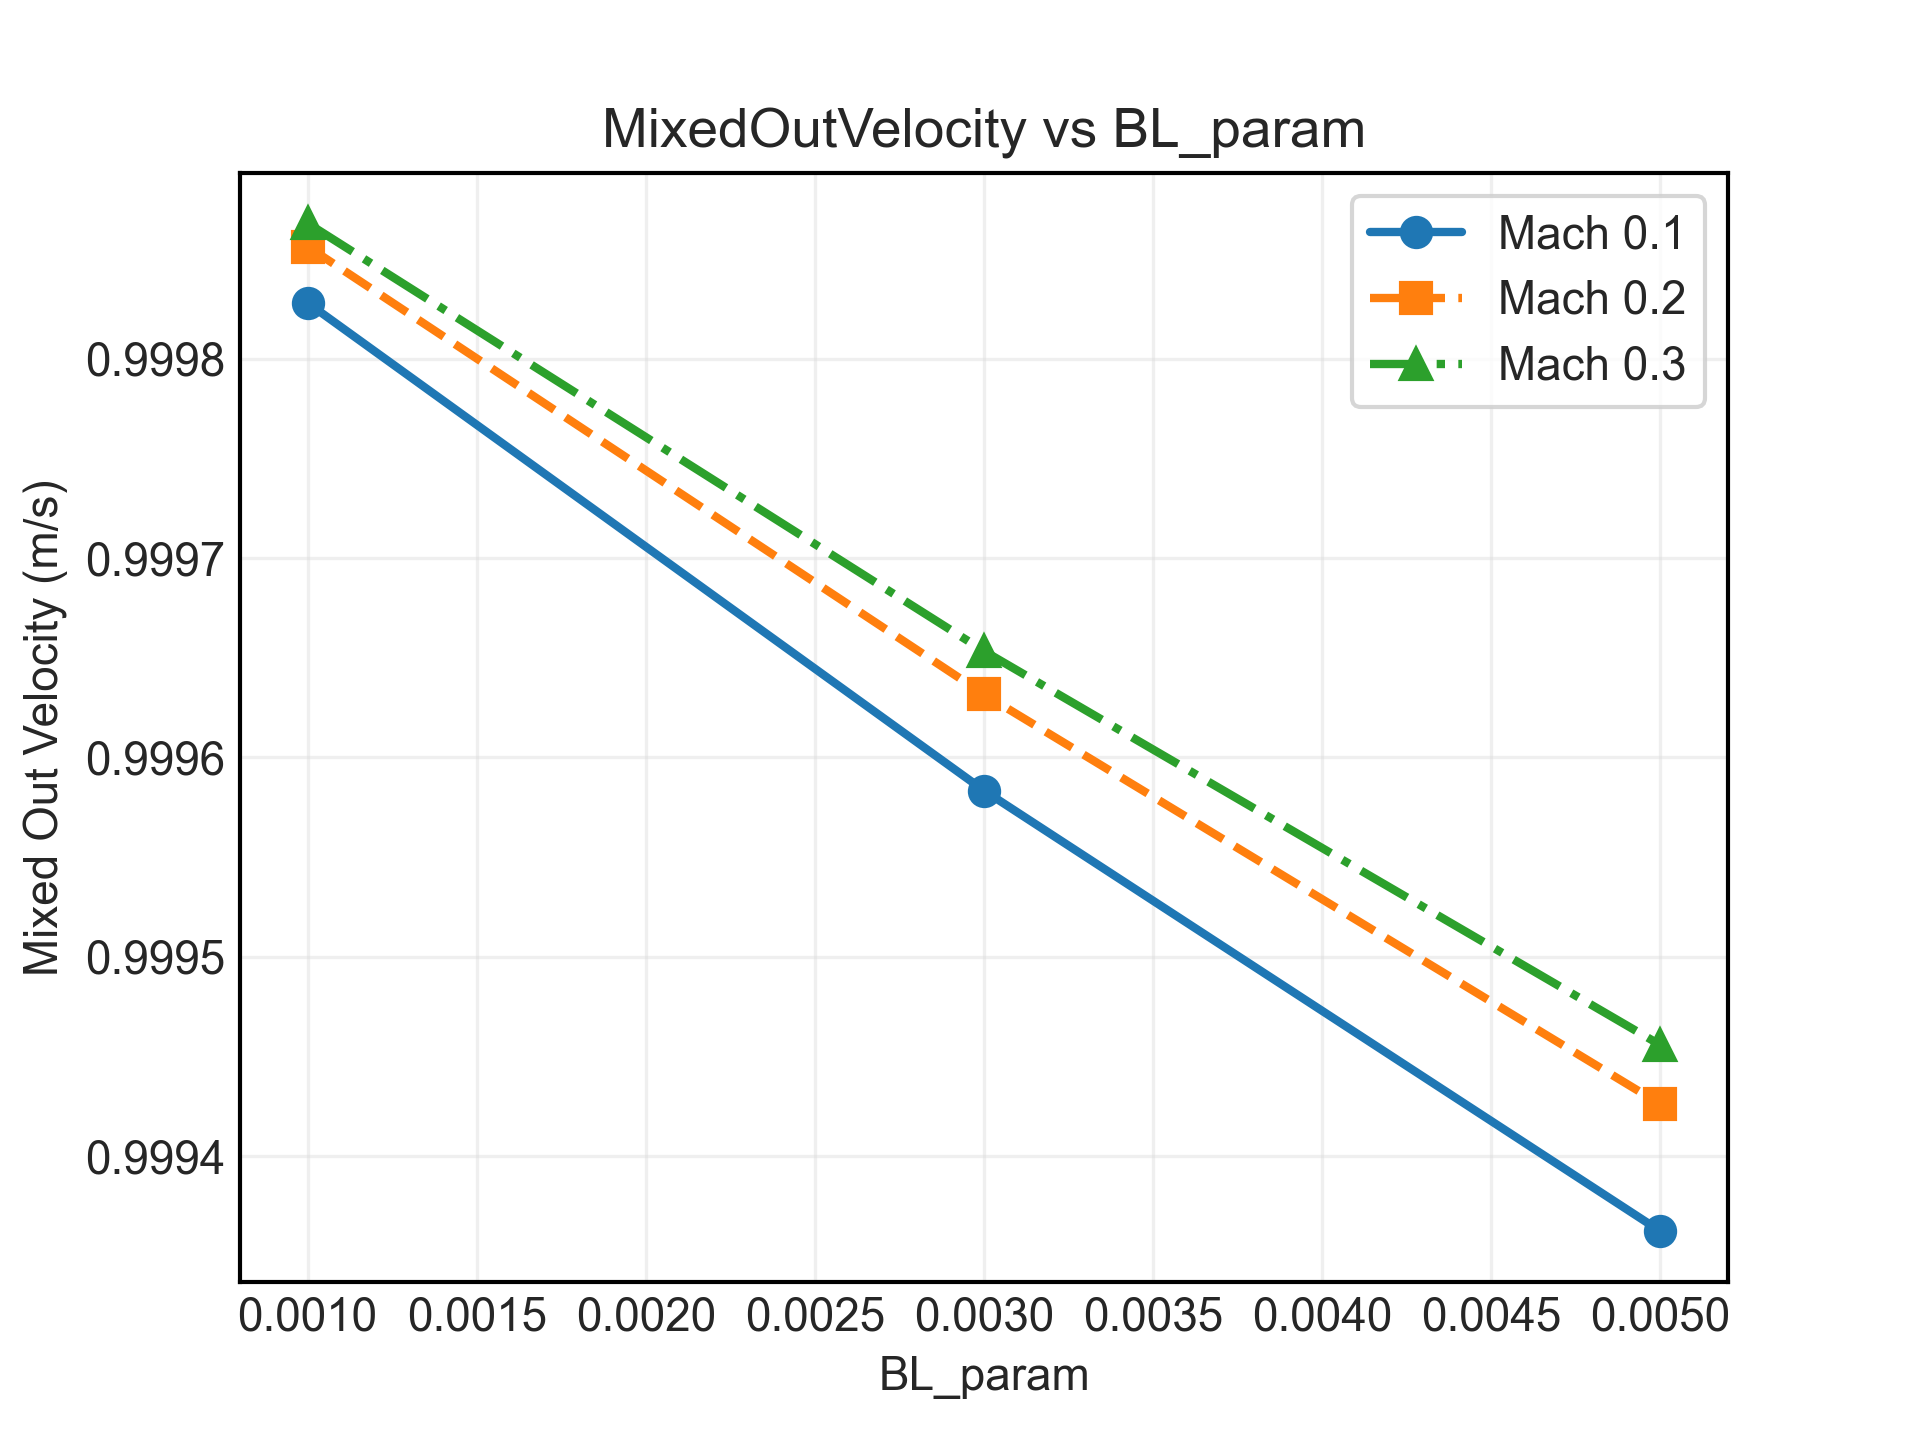
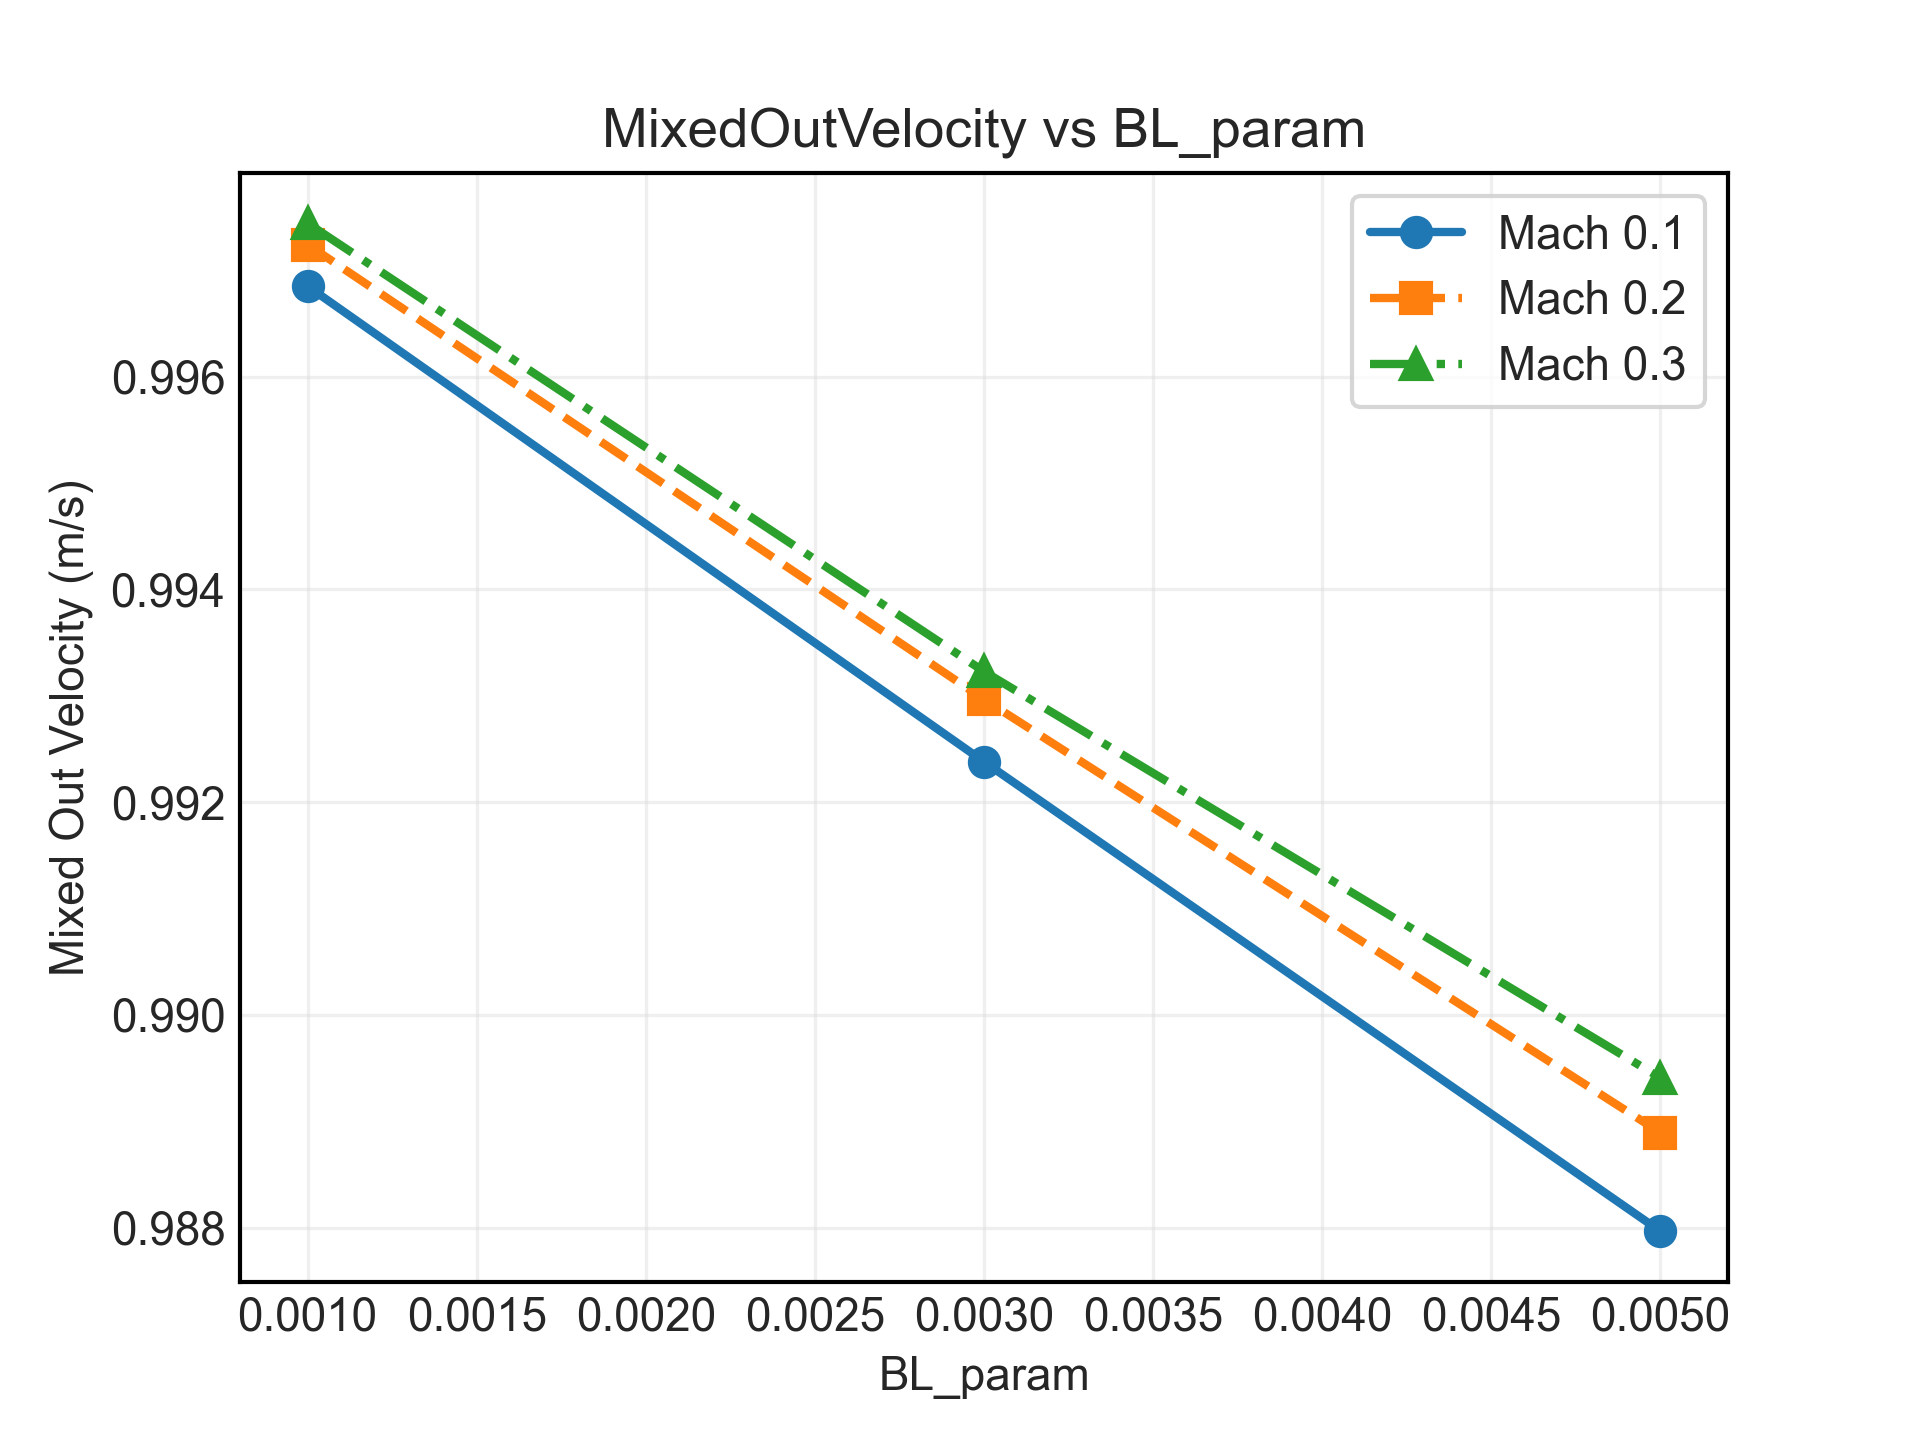
Added Enstrophy Calculations

diff --git a/mixedout.py b/mixedout.py
@@ -4,6 +4,7 @@ import os
 from scipy.interpolate import griddata
 import matplotlib.pyplot as plt
 import matplotlib as mpl
+import sys
 
 plt.style.use('seaborn-v0_8-whitegrid')
 mpl.rcParams.update({
@@ -16,8 +17,6 @@ mpl.rcParams.update({
     "font.size": 11,
     "legend.frameon": True
 })
-
-
 
 class plane:
     def __init__(self,path,method='star'):
@@ -32,6 +31,10 @@ class plane:
         self.df = None
         self.circulation = None
         self.half_circulation = None
+        self.a_avg_vorticitymag = None
+        self.a_avg_vorticity_y = None
+        self.omega_rms = None
+        self.enstrophy = None
 
 
         if method == 'star':
@@ -113,12 +116,13 @@ class plane:
 
         mask = (
             (y >= -2) & (y <= 2) &
-            (z >= 0) & (z <= 1)
+            (z >= 0) & (z <= 0.05)
             )
 
         m_dot_total = np.sum(m_dot_local[mask])
         mom_total = np.sum(mom_local[mask])
         area_total = np.sum(A_mag[mask])
+        
 
         u_mixed = m_dot_total / (rho*area_total)
         static_p_mixed = mom_total / area_total - rho * u_mixed**2
@@ -133,6 +137,11 @@ class plane:
         wz = df['Vorticity[k] (/s)'].values
         omega_n = wx * nx + wy * ny + wz * nz
         self.circulation = np.sum(omega_n * A_mag)
+
+        omega_mag = np.sqrt(wx**2 + wy**2 + wz**2)
+        self.a_avg_vorticitymag = np.sum(omega_mag[mask] * A_mag[mask]) / np.sum(A_mag[mask])
+        self.a_avg_vorticity_y = np.sum(wy[mask]*A_mag[mask])/np.sum(A_mag[mask])
+        self.enstrophy = np.sum((wx**2 + wy**2 + wz**2) * A_mag)
 
         mask = (
             (y >= 0) & (y <= 2) &
@@ -245,6 +254,10 @@ class cfdrun:
         self.half_circulation = None
         self.gamma_param = None
         self.vout = None
+        self.a_avg_vorticitymag = None
+        self.a_avg_vorticity_y = None
+        self.a_avg_vorticity_ratio = None
+        self.enstrophy_ratio = None
 
         self.inlet_plane = plane(folder_path+r'\inlet_data.csv',method=type)
         self.outlet_plane = plane(folder_path+r'\outlet_data.csv',method=type)
@@ -265,6 +278,13 @@ class cfdrun:
         self.gamma_param = self.half_circulation/self.a
         self.gamma_out_gamma_in = self.gamma_param/self.Mach
         self.vout = self.outlet_plane.x_velo/(self.a*self.Mach)
+        self.a_avg_vorticitymag = self.outlet_plane.a_avg_vorticitymag
+        self.a_avg_vorticity_y = self.inlet_plane.a_avg_vorticity_y
+        self.a_avg_vorticity_ratio = self.inlet_plane.a_avg_vorticitymag/self.inlet_plane.a_avg_vorticity_y
+        self.inlet_rms = self.inlet_plane.omega_rms
+        self.outlet_rms = self.outlet_plane.omega_rms
+        self.enstrophy_ratio = self.outlet_plane.enstrophy/self.inlet_plane.enstrophy
+        #self.enstrophy_ratio = self.inlet_plane.enstrophy
 
     def print_results(self):
         print(f'\n----------{self.name}----------')
@@ -274,6 +294,7 @@ class cfdrun:
         print(f'dPt: {self.deltaPt}')
         print(f'Entropy Rise: {self.entropy_rise}')
         print(f'Gamma Parameter (gamma/(L*a)): {self.gamma_param}')
+        print(f'Area Averaged Vorticity Magnitude: {self.a_avg_vorticitymag}')
 
 class RunPlot:
     def __init__(
@@ -486,8 +507,20 @@ plot_configs = [
         "xlabel": "BL_param",
         "ylabel": "Mixed Out Velocity (m/s)",
         "title": "MixedOutVelocity vs BL_param"
+    },
+        {
+        "name": "EnstrophyRatio",
+        "xdata": "BL_param",
+        "ydata": "enstrophy_ratio",
+        "group_by": "Mach",
+        "sort_by": "Mach",
+        "xlabel": "BL_param",
+        "ylabel": "enstrophy_ratio (out/in)",
+        "title": "Enstrophy Ratio vs BL_param (Inlet)"
     }
 ]
+
+
 plots = {cfg["name"]: RunPlot(**cfg) for cfg in plot_configs}
 
 for cfd_run in cfd_runs:
@@ -505,6 +538,9 @@ mach_list = [0.3]
 bl_list   = sorted(set(run.BL_param for run in cfd_runs))
 vscale = {0.1: 70000,0.2: 100000,0.3: 150000}
 # 31606.76506,61150.77373,92205.51357
+
+plt.show()
+sys.exit()
 
 # Vorticity Plot
 for mach in mach_list:
@@ -525,10 +561,10 @@ for mach in mach_list:
         if matching_runs:
 
             run = matching_runs[0]
-            run.outlet_plane.contour_plot(
+            run.inlet_plane.contour_plot(
                 ax=ax,
                 name=f"BL = {bl_param}",
-                value_col='Vorticity[i] (/s)',
+                value_col='Vorticity[j] (/s)',
                 plot_type='filled',
                 deadband=0,
                 levels=500,
@@ -625,42 +661,4 @@ for mach in mach_list:
         colorbar = fig.colorbar(contour_obj, ax=axes, pad=0.02)
         colorbar.set_ticks(np.linspace(0, vmax, ticks))
 
-# Velocity Plot
-for mach in mach_list:
-
-    vmax = 150
-    ticks = len(np.arange(0, vmax + 25, 150))
-    if ticks<=5:
-        ticks = 9
-
-    fig, axes = plt.subplots(1, len(bl_list), figsize=(5*len(bl_list), 4),
-                             constrained_layout=True)
-    
-    for ax, bl_param in zip(axes, bl_list):        
-
-        matching_runs = [run for run in cfd_runs if run.Mach == 0.3 and run.BL_param == bl_param]
-
-        if matching_runs:
-
-            run = matching_runs[0]
-            run.outlet_plane.contour_plot(
-                ax=ax,
-                name=f"BL = {bl_param}",
-                value_col='Velocity[i] (m/s)',
-                plot_type='filled',
-                deadband=0,
-                levels=500,
-                y_lim=0.005,
-                vmin=0,
-                vmax=vmax,
-                cmap = 'plasma'
-            )
-
-            contour_obj = ax.collections[0]
-
-    fig.suptitle(f"Outlet Velocity Contours [i] — Mach {mach}", fontsize=16)
-
-    if contour_obj is not None:
-        colorbar = fig.colorbar(contour_obj, ax=axes, pad=0.02)
-        colorbar.set_ticks(np.linspace(0, vmax, ticks))
 plt.show()
